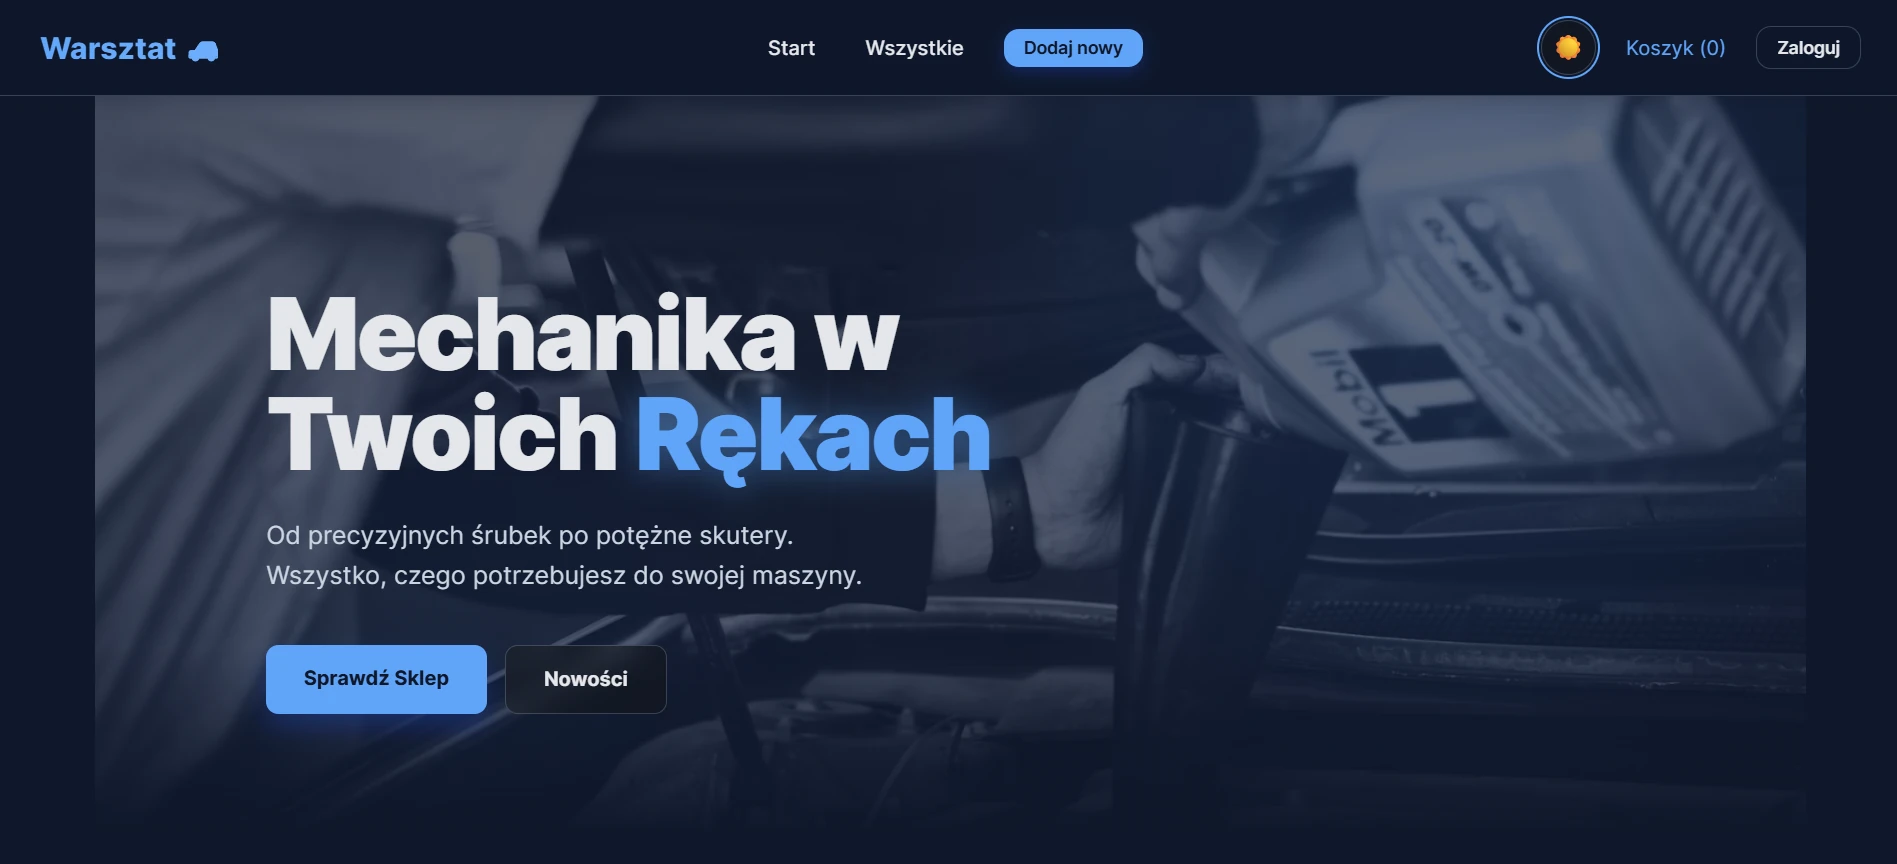
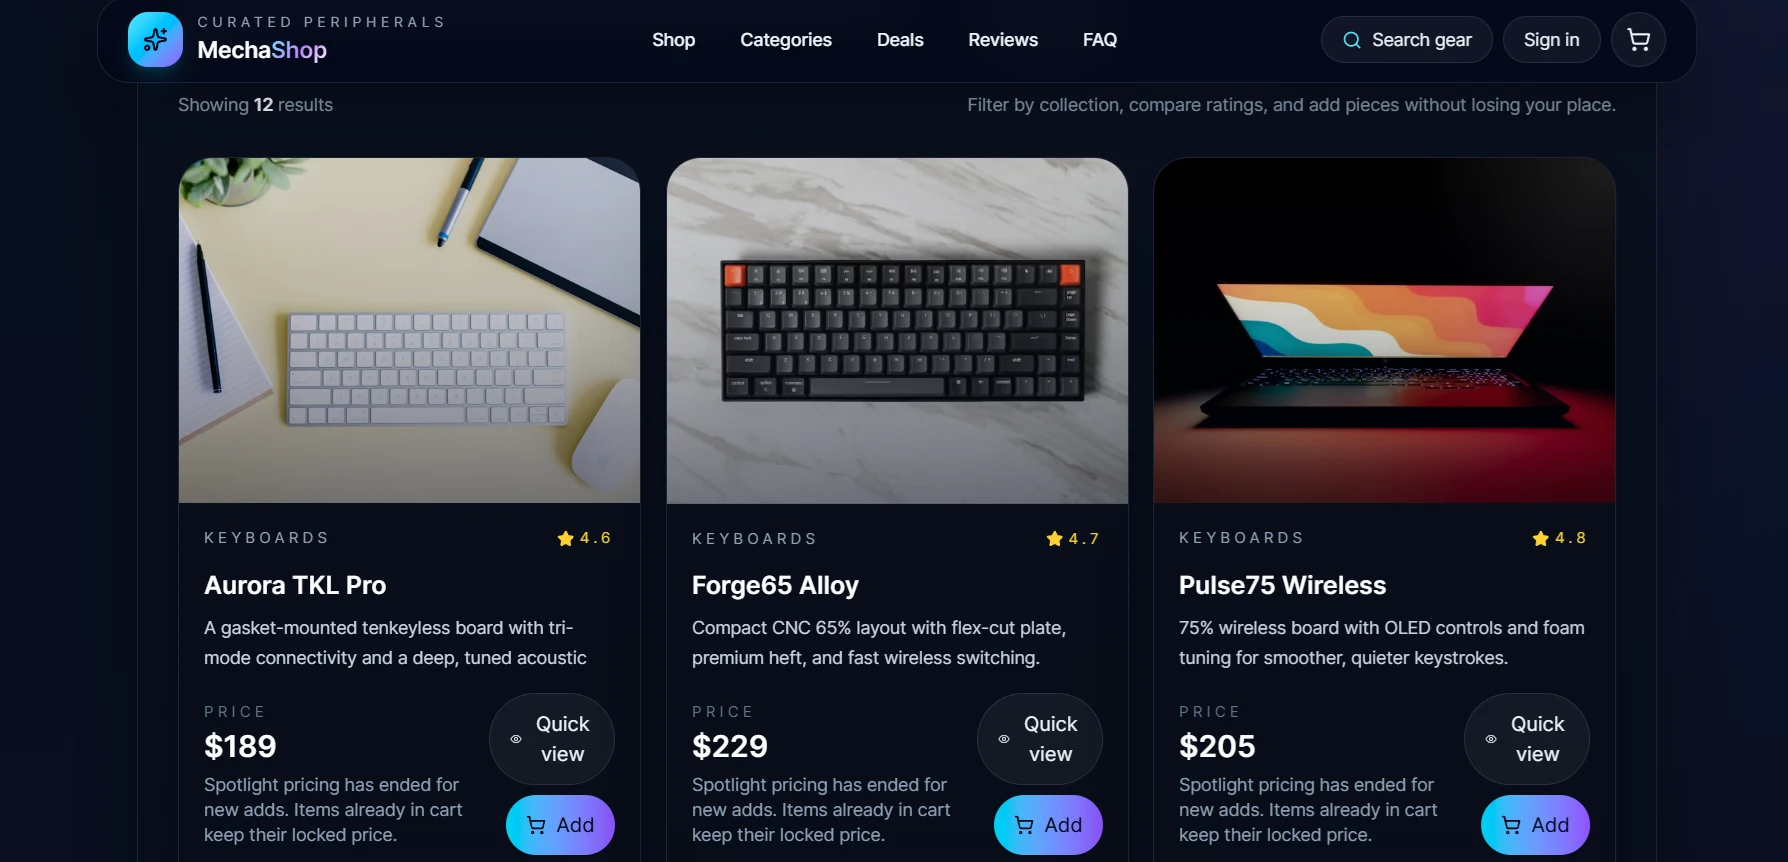
shop got changed

diff --git a/src/components/Projects.tsx b/src/components/Projects.tsx
@@ -12,17 +12,17 @@ const Projects = () => {
       description: t("projects.mechashopfrontend.desc"),
       image: SklepRowerowyImage,
       tags: [
-        "Angular",
+        "React",
         "TypeScript",
         "Node.js",
-        "PostgreSQL",
-        "GraphQL",
+        "Vite",
         "REST API",
-        "Stripe",
-        "SCSS",
+        "Tailwind CSS",
+        "Vitest",
+        "React Router",
         "JWT",
         "OAuth",
-        "Playwright",
+        "Stripe",
       ],
       github: "https://github.com/Barosz30/MechaShopFront",
       live: "https://mechashopfront.onrender.com/",

diff --git a/src/contexts/LanguageContext.tsx b/src/contexts/LanguageContext.tsx
@@ -54,7 +54,7 @@ const translations = {
       "The heart of an online store, built with Nest.js. The database runs on NeonDB. Payments are handled by Stripe. Authentication via username and password as well as OAuth. Uses JWT.",
     "projects.mechashopfrontend.title": "E-commerce application frontend",
     "projects.mechashopfrontend.desc":
-      "Frontend built with Angular 21. Payments are handled by Stripe. Sign-in via username and password or Google OAuth. The card number for mock payments is provided in the cart ;)",
+      "Frontend built with React 19 and TypeScript. Uses Vite as build tool, Tailwind CSS for styling, and React Router for navigation. Testing with Vitest and Playwright. Authentication via JWT and Google OAuth. Payments handled by Stripe.",
     "projects.shop.title": "Online Shop",
     "projects.shop.desc":
       "An application developed by a three-person team, where I served as the team lead. We built the project using Next.js, with MongoDB as the database (no-sql) and Clerk for user authentication.",
@@ -161,7 +161,7 @@ const translations = {
       "Serce sklepu internetowego, postawione na Nest.js. Baza danych jest postawiona na NeonDB. Płatności są obsługiwane przez Stripe. Autoryzacja przez login i hasło oraz OAuth. Używa JWT.",
     "projects.mechashopfrontend.title": "Frontend aplikacji sklepowej",
     "projects.mechashopfrontend.desc":
-      "Front postawiony na Angularze 21. Płatności są obsługiwane przez Stripe. Logowanie przez login i hasło lub OAuth z Google. Numer karty do udawanych płatności jest podany w koszyku ;)",
+      "Frontend zbudowany z React 19 i TypeScript. Wykorzystuje Vite jako narzędzie budowania, Tailwind CSS do stylowania oraz React Router do nawigacji. Testowanie za pomocą Vitest i Playwright. Uwierzytelnianie przez JWT i Google OAuth. Płatności obsługiwane przez Stripe.",
     "projects.shop.title": "Sklep Internetowy",
     "projects.shop.desc":
       "Aplikacja stworzona w trzyosobowym zespole, w którym pełniłem rolę lidera zespołu. Projekt zrealizowaliśmy w technologii Next.js, wykorzystując MongoDB jako bazę danych (no-sql) oraz Clerk do obsługi autentycacji.",